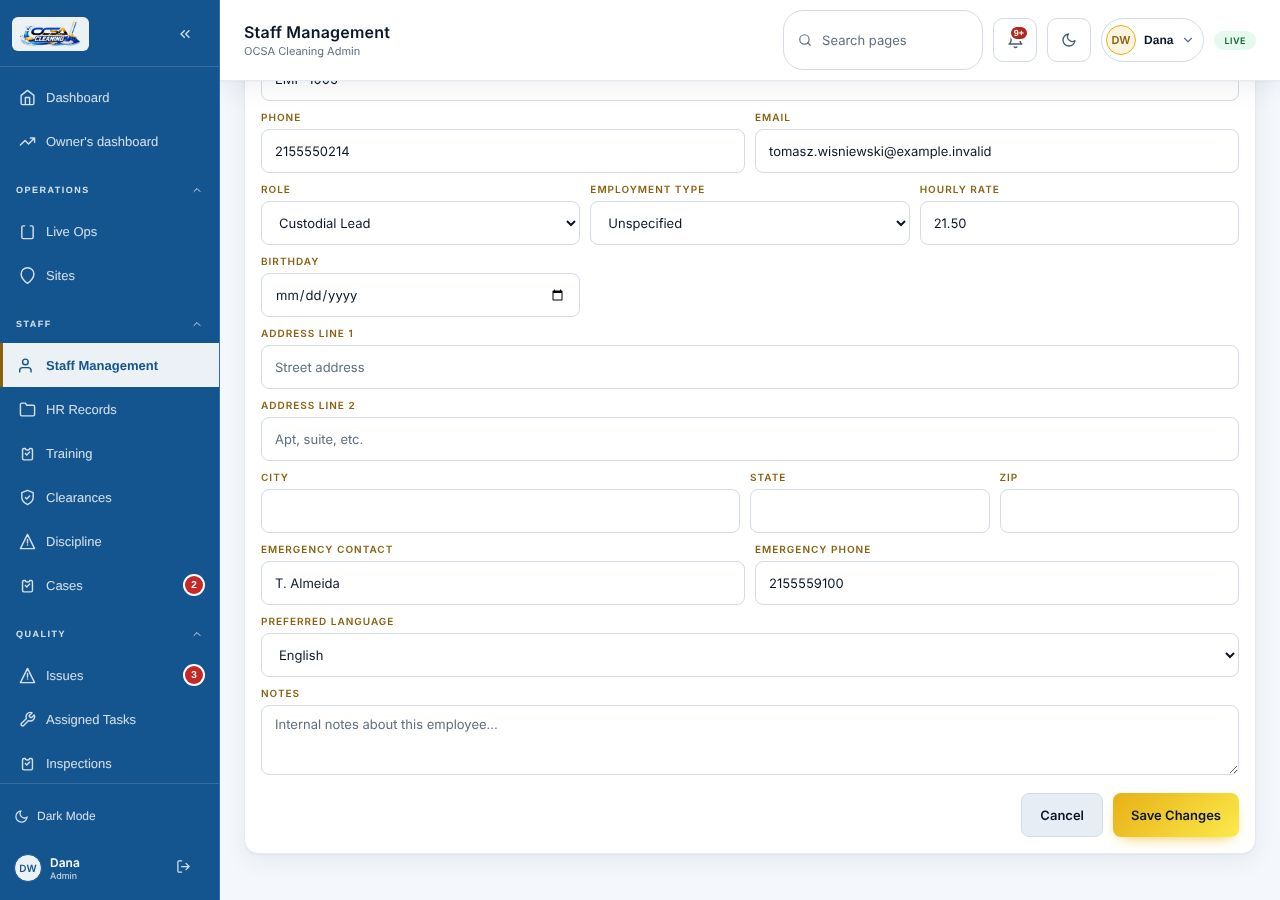
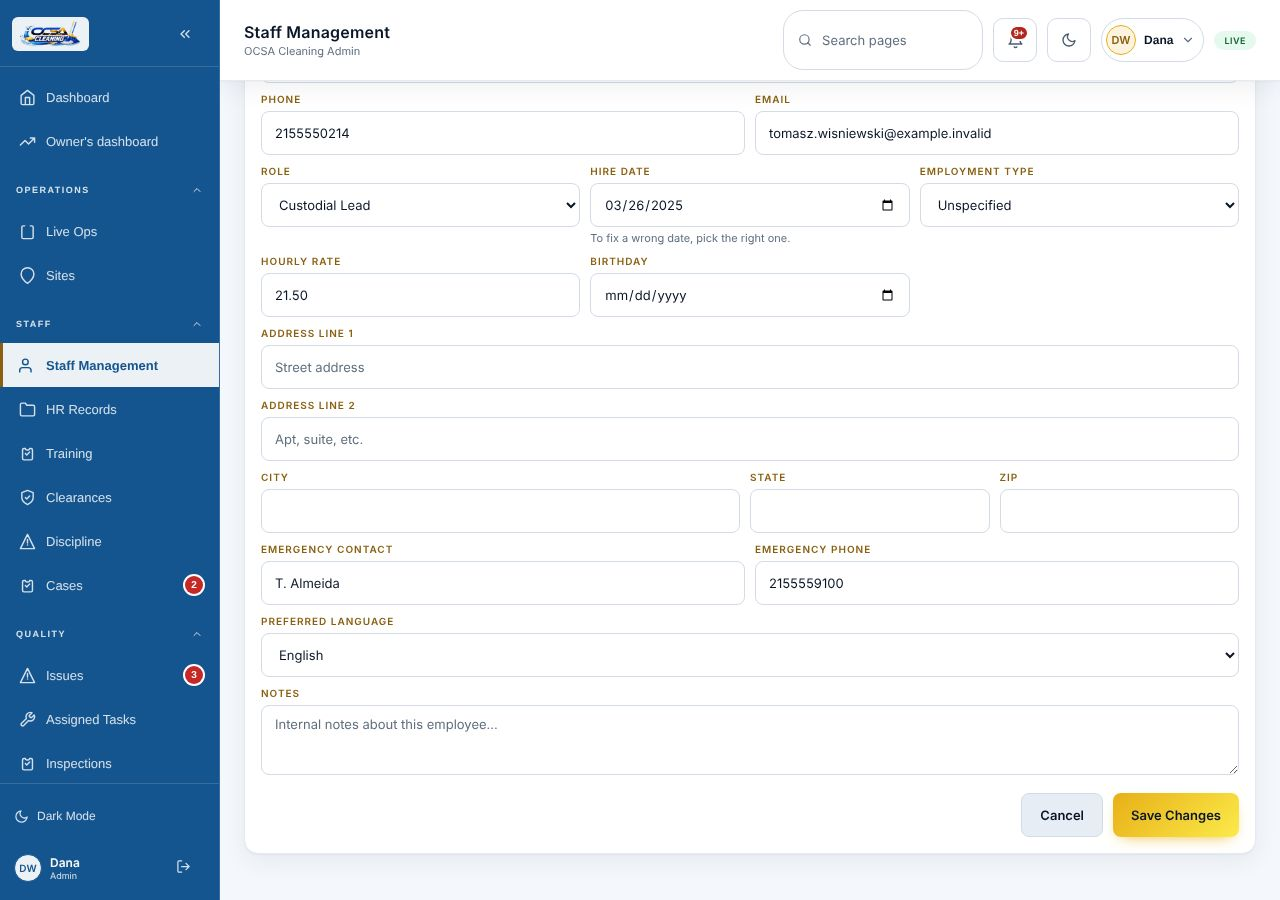
341: Changing a hire date's stub, smoke lines, notes, guide and pictures
The stub's setStep341 answers the API's part 340: GET /api/users and a profile carry each person's
hireDate, one active person carrying none; PATCH /api/users/:id and POST /api/users take hireDate
from a holder of manage_employment, refuse a day that is not real or is more than a year ahead 400
users.badHireDate, drop it for anyone else, and keep every body sent. Every value is invented.

Ten smoke lines, armed in the part's own lines at the end of the 1280 admin and supervisor passes in
English and Spanish: an untouched date is not sent and cannot be emptied; a changed date goes as
hireDate with every other field as the untouched save sent it; a profile's Edit fills a missing
date and draws users.badHireDate under the field; Add Staff sends hireDate only when filled; a
supervisor sees no Hire Date in either window and no Add Staff.

Guide: Edit a staff member's information and Add a staff member updated, and a new entry, Change a
staff member's hire date, through the profile's Edit, with two new pictures, staff-hire-date and
staff-hire-date-refused; staff-add-window and staff-profile-edit retaken with the field.

Claude-Session: https://claude.ai/code/session_01WvKUhYSAJjoJaaQxG7w5XV

Changed region(s): [[0.5938, 0.0933, 0.8125, 0.2489], [0.1875, 0.0933, 0.3125, 0.3422], [0.4375, 0.1867, 0.625, 0.3422]]

diff --git a/audit/smoke.js b/audit/smoke.js
@@ -168,6 +168,12 @@
 //     its own route, at 390 in English too; and a site kept as a record reads Not tracked on Live Ops and
 //     its setting saves. Once, before the passes, the worker line runs public/sw.js in a sandbox: a push
 //     shows its alert and a click opens each subject's place.
+//   - against the stub's answers for changing a hire date (the API's part 340, for the dashboard's part
+//     341), armed with setStep341 in the part's own lines: at 1280 in English and in Spanish an admin's
+//     Edit Staff Info sends no hireDate when the date is untouched, keeps a set date from being emptied,
+//     and sends a changed date as hireDate with nothing else changed; a profile's Edit fills a missing
+//     date and draws users.badHireDate under the field; Add Staff sends hireDate only when it is filled;
+//     and a supervisor, in English and in Spanish, sees no Hire Date in either window and no Add Staff.
 // One line a check. Any failure exits non-zero, and so does a run of three minutes or more. The full
 // npm run audit is untouched by this.
 // Since Step 273 the passes run side by side, each in a browser context and a stub of its own, and
@@ -241,13 +247,13 @@ const LAST_WEEK = (() => {
   return { from: day(mon), to: day(new Date(mon.getTime() + 6 * 86400000)) };
 })();
 const PASSES = [
-  { name: "1280 en admin", viewport: "wide", lang: "en", who: "admin", wrongSignIn: true, step283: true, step248: true, step250: true, requestChecks: true, step253: true, step256: "all", step262: "all", step266: "all", step270: "all", step269: "all", step275: "all", step278: true, step280: true, step291: true, step300: true, step293: true, step306: true, step309: true, step314: true, step317: true, step333: true, step334: true, step338: true },
-  { name: "1280 es admin", viewport: "wide", lang: "es", who: "admin", secondStep: true, wrongSignIn: true, step283: true, step248: true, step250: true, step256: "all", step262: "all", step266: "all", step270: "all", step269: "all", step275: "all", step278: true, step280: true, step291: true, step300: true, step293: true, step306: true, step309: true, step314: true, step317: true, step333: true, step334: true, step338: true },
+  { name: "1280 en admin", viewport: "wide", lang: "en", who: "admin", wrongSignIn: true, step283: true, step248: true, step250: true, requestChecks: true, step253: true, step256: "all", step262: "all", step266: "all", step270: "all", step269: "all", step275: "all", step278: true, step280: true, step291: true, step300: true, step293: true, step306: true, step309: true, step314: true, step317: true, step333: true, step334: true, step338: true, step341: true },
+  { name: "1280 es admin", viewport: "wide", lang: "es", who: "admin", secondStep: true, wrongSignIn: true, step283: true, step248: true, step250: true, step256: "all", step262: "all", step266: "all", step270: "all", step269: "all", step275: "all", step278: true, step280: true, step291: true, step300: true, step293: true, step306: true, step309: true, step314: true, step317: true, step333: true, step334: true, step338: true, step341: true },
   { name: "390 en admin", viewport: "phone", lang: "en", who: "admin", wrongSignIn: true, step283: true, step256: "phone", step262: "phone", step266: "phone", step270: "phone", step269: "phone", step275: "phone", step280: true, step291: true, step300: true, step293: true, step306: true, step309: true, step314: true, step317: true, step334: true },
-  { name: "1280 en supervisor", viewport: "wide", lang: "en", who: "supervisor", step256: "supervisor", step269: "supervisor", step332: "after" },
+  { name: "1280 en supervisor", viewport: "wide", lang: "en", who: "supervisor", step256: "supervisor", step269: "supervisor", step332: "after", step341: true },
   // The training day round: a supervisor in Spanish with the API's Step 327 answered from the start,
   // its lines alone.
-  { name: "1280 es supervisor", viewport: "wide", lang: "es", who: "supervisor", step332: true, walk: false },
+  { name: "1280 es supervisor", viewport: "wide", lang: "es", who: "supervisor", step332: true, walk: false, step341: true },
   // Step 273: the phone in Spanish, for the key sent to a phone and the Step 269 screens.
   { name: "390 es admin", viewport: "phone", lang: "es", who: "admin", step270: "phone", step269: "phone", step275: "phone" },
 ];
@@ -2745,6 +2751,127 @@ async function step338(d, origin, p, stubs) {
   });
 }
 
+// Part 341, changing a hire date, with the API's part 340 armed here. An admin: Edit Staff Info sends
+// no hireDate when the date is untouched and keeps a set date from being emptied; a changed date goes
+// as hireDate, the one field that changed; a profile's Edit fills a missing date, and users.badHireDate
+// is drawn under the field in the API's words; Add Staff sends hireDate when filled and leaves it out
+// when empty. A supervisor sees no Hire Date in either window and is offered no Add Staff.
+const nameOf341 = (id) => seed.STAFF.find((x) => x.id === id).name;
+const hireOf341 = (id) => seed.STAFF.find((x) => x.id === id).hire_date;
+async function editWindow341(d, id) {
+  await go(d, "staff", null, "table tbody tr");
+  await d.page.getByPlaceholder(d.say("Search name, ID, phone, role")).fill(nameOf341(id));
+  await d.page.locator("table tbody tr").filter({ hasText: nameOf341(id) }).first().getByTitle(d.say("Edit"), { exact: true }).click();
+  await d.page.getByText(d.say("Edit Staff Info"), { exact: true }).waitFor();
+}
+async function saved341(d, stubs, button) {
+  const before = stubs.patches341().length;
+  await button.click();
+  await forCalls(() => stubs.patches341().length, before);
+  return stubs.patches341()[before] || null;
+}
+const saveButton341 = (d) => d.page.getByRole("button", { name: d.say("Save Changes"), exact: true }).first();
+async function profileEdit341(d, id) {
+  await go(d, "staff", [id], "[data-profile-edit]");
+  await d.page.locator("[data-profile-edit]").click();
+  await until(d, '[data-hire-date="profile"], input[type="date"]');
+}
+async function added341(d, stubs, fill) {
+  await go(d, "staff", null, "table tbody tr");
+  await d.page.getByRole("button", { name: d.say("Add Staff"), exact: true }).first().click();
+  await until(d, '[data-hire-date="add"]');
+  const win = d.page.locator('[data-hire-date="add"]').locator("xpath=..");
+  const boxes = win.locator("input");
+  await boxes.nth(0).fill(fill.first);
+  await boxes.nth(1).fill(fill.last);
+  await boxes.nth(2).fill(fill.phone);
+  await boxes.nth(3).fill(fill.email);
+  if (fill.hireDate) await win.locator('[data-hire-date="add"] input').fill(fill.hireDate);
+  const before = stubs.posts341().length;
+  await win.getByRole("button", { name: d.say("Add Staff"), exact: true }).click();
+  await forCalls(() => stubs.posts341().length, before);
+  const sent = stubs.posts341()[before] || null;
+  const done = d.page.getByRole("button", { name: d.say("Done"), exact: true });
+  await done.waitFor().catch(() => {});
+  if (await done.count()) await done.click();
+  return sent;
+}
+async function step341(d, origin, p, stubs) {
+  const check = lineChecker(d, origin, p);
+  stubs.setStep341(true);
+  const own = (o, k) => !!o && Object.prototype.hasOwnProperty.call(o, k);
+  if (p.who === "supervisor") {
+    await check("a supervisor sees no Hire Date in Edit Staff Info or a profile's Edit, and no Add Staff", async () => {
+      await editWindow341(d, "u-staff-6");
+      if ((await d.page.locator("[data-hire-date]").count()) > 0) return "Edit Staff Info draws Hire Date";
+      const sent = await saved341(d, stubs, saveButton341(d));
+      if (!sent) return "the window saved nothing";
+      if (own(sent.body, "hireDate")) return "the save sent hireDate " + JSON.stringify(sent.body.hireDate);
+      await profileEdit341(d, "u-staff-6");
+      if ((await d.page.locator("[data-hire-date]").count()) > 0) return "the profile's Edit draws Hire Date";
+      await go(d, "staff", null, "table tbody tr");
+      return (await d.page.getByRole("button", { name: d.say("Add Staff"), exact: true }).count()) > 0 ? "Add Staff is offered" : "";
+    });
+    return;
+  }
+  let untouched = null;
+  await check("Edit Staff Info: an untouched hire date is not sent, and a set date cannot be emptied", async () => {
+    await editWindow341(d, "u-staff-6");
+    const box = d.page.locator('[data-hire-date="edit"] input');
+    if ((await box.inputValue()) !== hireOf341("u-staff-6")) return "the field reads " + JSON.stringify(await box.inputValue());
+    await box.fill("");
+    await wait(150);
+    if ((await box.inputValue()) !== hireOf341("u-staff-6")) return "the date was emptied";
+    const sent = await saved341(d, stubs, saveButton341(d));
+    if (!sent || sent.id !== "u-staff-6") return "the save sent " + JSON.stringify(sent);
+    if (own(sent.body, "hireDate")) return "the save sent hireDate " + JSON.stringify(sent.body.hireDate);
+    untouched = sent.body;
+    return "";
+  });
+  await check("Edit Staff Info: a changed hire date goes as hireDate, and nothing else changes", async () => {
+    if (!untouched) return "the untouched save did not run";
+    await editWindow341(d, "u-staff-6");
+    await d.page.locator('[data-hire-date="edit"] input').fill("2025-04-01");
+    const sent = await saved341(d, stubs, saveButton341(d));
+    if (!sent || sent.body.hireDate !== "2025-04-01") return "the save sent " + JSON.stringify(sent && sent.body);
+    const rest = Object.assign({}, sent.body);
+    delete rest.hireDate;
+    if (JSON.stringify(rest) !== JSON.stringify(untouched)) return "the save changed more than the date: " + JSON.stringify(rest);
+    await editWindow341(d, "u-staff-6");
+    const now = await d.page.locator('[data-hire-date="edit"] input').inputValue();
+    return now !== "2025-04-01" ? "the window opens again on " + JSON.stringify(now) : "";
+  });
+  await check("a profile's Edit fills a missing hire date, and users.badHireDate shows under the field", async () => {
+    await profileEdit341(d, "u-staff-7");
+    const box = d.page.locator('[data-hire-date="profile"] input');
+    if ((await box.inputValue()) !== "") return "the field reads " + JSON.stringify(await box.inputValue());
+    const far = (Number(seed.shift(0).slice(0, 4)) + 2) + "-06-01";
+    await box.fill(far);
+    const refused = await saved341(d, stubs, saveButton341(d));
+    if (!refused || refused.body.hireDate !== far || !refused.refused) return "the far date was sent as " + JSON.stringify(refused);
+    await until(d, "[data-hire-date-said]");
+    const said = await d.page.locator('[data-hire-date="profile"] [data-hire-date-said]').innerText();
+    if (said.trim() !== stubs.hireRefusal341(p.lang)) return "under the field: " + JSON.stringify(said);
+    await box.fill("2025-04-17");
+    if ((await d.page.locator("[data-hire-date-said]").count()) > 0) return "the refusal stays once the date changes";
+    const sent = await saved341(d, stubs, saveButton341(d));
+    if (!sent || sent.body.hireDate !== "2025-04-17" || sent.refused) return "the save sent " + JSON.stringify(sent);
+    await d.page.locator('[data-hire-date="profile"]').waitFor({ state: "detached" });
+    await profileEdit341(d, "u-staff-7");
+    const now = await d.page.locator('[data-hire-date="profile"] input').inputValue();
+    if (now !== "2025-04-17") return "the profile opens again on " + JSON.stringify(now);
+    return (await d.page.locator('[data-hire-date="profile"]').innerText()).indexOf(d.say("To fix a wrong date, pick the right one.")) < 0 ? "the line under the set date is not there" : "";
+  });
+  await check("Add Staff sends hireDate when filled and leaves it out when empty", async () => {
+    const empty = await added341(d, stubs, { first: "Avery", last: "Testcase", phone: "2155550142", email: "avery.testcase@example.invalid" });
+    if (!empty) return "Add Staff sent nothing";
+    if (own(empty.body, "hireDate")) return "an empty Hire Date was sent as " + JSON.stringify(empty.body.hireDate);
+    const filled = await added341(d, stubs, { first: "Jordan", last: "Testcase", phone: "2155550143", email: "jordan.testcase@example.invalid", hireDate: "2026-03-02" });
+    if (!filled) return "Add Staff sent nothing the second time";
+    return filled.body.hireDate !== "2026-03-02" ? "a filled Hire Date was sent as " + JSON.stringify(filled.body.hireDate) : "";
+  });
+}
+
 async function runPass(browser, origin, p) {
   const stubs = createStubs();
   // Step 253 brings Step 250's and 247's answers with it, Step 250 brings Step 247's; every other pass
@@ -2893,6 +3020,7 @@ async function runPass(browser, origin, p) {
     if (p.step333) await step333(d, origin, p, stubs);
     if (p.step334) await step334(d, origin, p, stubs);
     if (p.step338) await step338(d, origin, p, stubs);
+    if (p.step341) await step341(d, origin, p, stubs);
     if (p.walk === false) return;
 
     // Help, asked one question.

diff --git a/audit/stubs.js b/audit/stubs.js
@@ -7074,6 +7074,67 @@ function createStubs() {
     return base();
   }
 
+  // setStep341, changing a hire date (the API's part 340): GET /api/users and a profile answer each
+  // person's hireDate, one active person answering none; PATCH /api/users/:id and POST /api/users take
+  // hireDate from a holder of manage_employment (an admin while the permissions answer does not name
+  // it), refusing a day that is not real or is more than a year ahead 400 users.badHireDate in the API's
+  // words, and drop it, unwritten, for anyone else. Every PATCH and POST is kept as it was sent.
+  let step341 = false;
+  const NO_HIRE_341 = "u-staff-7";
+  const s341 = () => state.s341 || (state.s341 = { dates: { [NO_HIRE_341]: null }, patches: [], posts: [] });
+  const hireOf341 = (id, was) => (Object.prototype.hasOwnProperty.call(s341().dates, String(id)) ? s341().dates[String(id)] : was == null ? null : was);
+  const employs341 = () => {
+    const m = effectiveMap(person(), state.overrides[person().id]);
+    return Object.prototype.hasOwnProperty.call(m, "manage_employment") ? m.manage_employment : person().role === "admin";
+  };
+  const badHire341 = (v, lang) => {
+    const today = seed.shift(0);
+    const limit = (Number(today.slice(0, 4)) + 1) + today.slice(4);
+    if (realDay(v) && v <= limit) return null;
+    return { status: 400, json: { error: T327(lang, "Choose a real date, no more than a year from today.", "Elija una fecha real, a no más de un año de hoy."), code: "users.badHireDate", keys: ["hireDate"] } };
+  };
+  function step341Route(method, path, query, body, lang, base) {
+    if (path === "/api/users" && method === "GET") {
+      const a = base();
+      if (a && a.status === 200 && Array.isArray(a.json)) a.json = a.json.map((x) => Object.assign({}, x, { hireDate: hireOf341(x.id, x.hireDate !== undefined ? x.hireDate : x.hire_date) }));
+      return a;
+    }
+    if (/^\/api\/users\/profile\/[^/]+$/.test(path) && method === "GET") {
+      const a = base();
+      if (a && a.status === 200 && a.json && a.json.user) a.json = Object.assign({}, a.json, { user: Object.assign({}, a.json.user, { hireDate: hireOf341(a.json.user.id, a.json.user.hireDate) }) });
+      return a;
+    }
+    const one = /^\/api\/users\/([^/]+)$/.exec(path);
+    if (one && method === "PATCH") {
+      const id = decodeURIComponent(one[1]);
+      const sent = clone(body || {});
+      const has = !!body && Object.prototype.hasOwnProperty.call(body, "hireDate");
+      if (has && !employs341()) {
+        s341().patches.push({ id, body: sent, dropped: true });
+        delete body.hireDate;
+        return base();
+      }
+      if (has) {
+        const refused = badHire341(body.hireDate, lang);
+        s341().patches.push({ id, body: sent, refused: !!refused });
+        if (refused) return refused;
+        s341().dates[id] = body.hireDate;
+        return base();
+      }
+      s341().patches.push({ id, body: sent });
+      return base();
+    }
+    if (path === "/api/users" && method === "POST") {
+      const sent = clone(body || {});
+      const has = !!body && Object.prototype.hasOwnProperty.call(body, "hireDate");
+      if (has && !employs341()) { s341().posts.push({ body: sent, dropped: true }); delete body.hireDate; return base(); }
+      const refused = has ? badHire341(body.hireDate, lang) : null;
+      s341().posts.push({ body: sent, refused: !!refused });
+      return refused || base();
+    }
+    return base();
+  }
+
   // The single entry point the harness routes every request through.
   function handle({ method, url, body, headers, lang }) {
     const u = new URL(url);
@@ -7138,7 +7199,8 @@ function createStubs() {
     const over329 = () => (step329 ? step329Route(method, path, u.searchParams, body, record.language, over327) : over327());
     const over330 = () => (step330 ? step330Route(method, path, u.searchParams, body, record.language, over329) : over329());
     const over337 = () => (step337 ? step337Route(method, path, u.searchParams, body, record.language, over330) : over330());
-    const answer = step283 ? step283Route(method, path, u.searchParams, body, record.language, signedIn, over337) : over337();
+    const over341 = () => (step341 ? step341Route(method, path, u.searchParams, body, record.language, over337) : over337());
+    const answer = step283 ? step283Route(method, path, u.searchParams, body, record.language, signedIn, over341) : over341();
     if (answer) {
       // The status the call was answered with, refusals the routes make on their own included.
       record.status = answer.status;
@@ -7269,6 +7331,11 @@ function createStubs() {
     covers330: () => (state.s330 ? state.s330.covers.slice() : []),
     setStep337: (v) => { step337 = v !== false; },
     saves337: () => (state.s337 ? state.s337.saves.slice() : []),
+    // Changing a hire date (the API's part 340), on or off, and every staff PATCH and POST since, as sent.
+    setStep341: (v) => { step341 = v !== false; },
+    patches341: () => (state.s341 ? state.s341.patches.slice() : []),
+    posts341: () => (state.s341 ? state.s341.posts.slice() : []),
+    hireRefusal341: (lang) => badHire341("", lang).json.error,
     // Every purchase order sent since the run armed Step 308, to whom.
     sent308: () => (state.s308 ? state.s308.sent.slice() : []),
     // Every welcome email tried since the run armed Step 292, with whom and how it went.

diff --git a/audit/shots.js b/audit/shots.js
@@ -1647,6 +1647,23 @@ const SHOTS = [
   { name: "site-task-list-record", entry: "Keep a site's task list as a record only",
     open: "sites/s-3/tasks", ready: '[data-checklist-mode="reference"]',
     act: async (c) => { await toTop(c, "[data-checklist-mode]", 120); } },
+  // Changing a hire date (part 341, setStep341): a profile's Edit with Hire Date filled in for a
+  // person who had none, and a date two years ahead refused under the field.
+  { name: "staff-hire-date", entry: "Change a staff member's hire date",
+    open: "staff/u-staff-7", ready: "[data-profile-edit]",
+    act: async (c) => {
+      await click(c, "[data-profile-edit]"); await until(c, '[data-hire-date="profile"]');
+      await c.page.locator('[data-hire-date="profile"] input').fill("2025-04-17");
+      await blur(c); await toTop(c, "[data-hire-date=profile]", 330);
+    } },
+  { name: "staff-hire-date-refused", entry: "Change a staff member's hire date",
+    open: "staff/u-staff-5", ready: "[data-profile-edit]",
+    act: async (c) => {
+      await click(c, "[data-profile-edit]"); await until(c, '[data-hire-date="profile"]');
+      await c.page.locator('[data-hire-date="profile"] input').fill((Number(seed.shift(0).slice(0, 4)) + 2) + "-06-01");
+      await press(c, "Save Changes"); await until(c, "[data-hire-date-said]");
+      await blur(c); await toTop(c, "[data-hire-date=profile]", 330);
+    } },
   { name: "site-schedule-edit", entry: "Change a block's time, kind and days",
     open: "sites/s-2/tasks", ready: '[data-schedule-edit="tb-5"]',
     act: async (c) => {
@@ -1718,7 +1735,7 @@ function buildIsFresh() {
 function stubsFor(as) {
   const stubs = createStubs();
   stubs.setStep253(true);
-  ["setStep256", "setStep262", "setStep266", "setStep270", "setStep269", "setStep275", "setStep278", "setStep280", "setStep283", "setStep289", "setStep299", "setStep292", "setStep305", "setStep308", "setStep312", "setStep315", "setStep327", "setStep329", "setStep330", "setStep337"].forEach((k) => stubs[k](true));
+  ["setStep256", "setStep262", "setStep266", "setStep270", "setStep269", "setStep275", "setStep278", "setStep280", "setStep283", "setStep289", "setStep299", "setStep292", "setStep305", "setStep308", "setStep312", "setStep315", "setStep327", "setStep329", "setStep330", "setStep337", "setStep341"].forEach((k) => stubs[k](true));
   // A person still on the PIN the office gave, whom the dashboard shows Choose your PIN alone (Step 284).
   if (as === "pin") stubs.setMustSetPin("admin", true);
   // The second step of sign-in, the way audit/smoke.js arms it: sign-in answers secondStep, and the

diff --git a/guide/APP-DASHBOARD.md b/guide/APP-DASHBOARD.md
@@ -87,7 +87,7 @@ Last checked: 2026-10-07
 Who can do this: admins. A supervisor opens **Staff Management** (**Gestión de personal**) and does not see **Add Staff** (**Agregar persona**).
 1. Click **Staff Management** (**Gestión de personal**).
 2. Click **Add Staff** (**Agregar persona**).
-3. Fill in first name, phone and email, and the role and employment type.
+3. Fill in first name, phone and email, and the role and employment type. **Hire Date** (**Fecha de contratación**) is optional: fill it in with the day the person started.
 4. Click **Add Staff** (**Agregar persona**) to save. The person is active at once, and the welcome email goes to their email by itself.
 5. The window that stays open says **Welcome email sent to {0}.** (**Se envió el correo de bienvenida a {0}.**) with the address, or **Welcome email not sent: {0}** (**No se envió el correo de bienvenida: {0}**) with the reason, such as a placeholder address.
 6. The **Temporary PIN** (**PIN temporal**) stays in the window, hidden, in case the email does not reach them: **Show** (**Mostrar**) reveals it and **Copy** (**Copiar**) copies it for the person's sign-in slip.
@@ -107,12 +107,13 @@ Who can do this: admins
 Picture: staff-pending
 Last checked: 2026-10-07
 ## Edit a staff member's information (admin dashboard)
-Who can do this: admins and supervisors. Only admins change a person's role, and a supervisor changes the information of staff only.
+Who can do this: admins and supervisors. Only admins change a person's role and hire date, and a supervisor changes the information of staff only.
 1. Click **Staff Management** (**Gestión de personal**) and click the person's row to open their profile.
 2. On the **Profile** (**Perfil**) tab, click **Edit** (**Editar**) on the contact information.
-3. Change what is needed and click **Save Changes** (**Guardar los cambios**). A supervisor's window has no role to change.
-4. The profile holds **Profile** (**Perfil**), **Assignments** (**Asignaciones**) and **Timeline** (**Historial**). The person's documents, training, certifications and filed forms are in their HR Records folder: click **Open HR file** (**Abrir el expediente de personal**), which shows for anyone who can open HR Records.
-5. **Preferred Language** (**Idioma preferido**) offers English and Español, and Français once the system keeps people in French. Before then, a person whose language is French shows Français and stays French when you save other changes.
+3. Change what is needed and click **Save Changes** (**Guardar los cambios**). A supervisor's window has no role and no hire date to change.
+4. **Hire Date** (**Fecha de contratación**) holds the person's date, and once set it cannot be emptied. See Change a staff member's hire date.
+5. The profile holds **Profile** (**Perfil**), **Assignments** (**Asignaciones**) and **Timeline** (**Historial**). The person's documents, training, certifications and filed forms are in their HR Records folder: click **Open HR file** (**Abrir el expediente de personal**), which shows for anyone who can open HR Records.
+6. **Preferred Language** (**Idioma preferido**) offers English and Español, and Français once the system keeps people in French. Before then, a person whose language is French shows Français and stays French when you save other changes.
 Picture: staff-profile-edit
 Last checked: 2026-10-13
 
@@ -2536,4 +2537,17 @@ Who can do this: admins, and anyone allowed to change site records. Everyone els
 5. The task list stays fully editable either way. Turn the setting back on to have staff check off tasks there again.
 Words people use for this: task list for reference, no check off, schools, record of the work, not tracked, lista de tareas como referencia.
 Picture: site-task-list-record
+Last checked: 2026-10-13
+
+## Change a staff member's hire date (admin dashboard)
+Who can do this: admins. A supervisor sees no hire date to change.
+1. Click **Staff Management** (**Gestión de personal**) and click the person's row to open their profile.
+2. On the **Profile** (**Perfil**) tab, click **Edit** (**Editar**) on the contact information.
+3. Pick the date in **Hire Date** (**Fecha de contratación**). The field is empty for someone whose profile reads **Not set** (**Sin indicar**).
+4. Click **Save Changes** (**Guardar los cambios**). The profile shows the new date, and the change is recorded with the old date, the new date and who made it.
+5. A hire date once set cannot be emptied. To fix a wrong one, pick the right date, as the line under the field says: **To fix a wrong date, pick the right one.** (**Para corregir una fecha equivocada, elija la correcta.**)
+If it does not work: a date that is not a real day, or is more than a year ahead, is refused, and the reason shows in red under the field. Pick a real date and click **Save Changes** (**Guardar los cambios**) again. For someone who left and is coming back, use Rehire someone, which sets their new hire date.
+Words people use for this: hire date, start date, date of hire, update a hire date, change a hire date, fix a hire date, missing hire date, when they started, fecha de contratación.
+Picture: staff-hire-date
+Picture: staff-hire-date-refused
 Last checked: 2026-10-13

diff --git a/audit/README.md b/audit/README.md
@@ -241,6 +241,19 @@ stood from 148 to 114 seconds; `SMOKE_LANES` sets how many. Then it checks, one 
     Step 291's Periodic work line has read every site: the third site's Service Details reads Staff check
     off tasks here off with its line and no Periodic work, Live Ops marks the site and its person Not
     tracked with no percentage, and turning the setting on saves `{ checklistMode: "tracked" }`.
+- against the stub's answers for changing a hire date (the API's part 340, for the dashboard's part 341),
+  `setStep341`, armed in the part's own lines at the end of four passes: GET /api/users and a profile
+  answer each person's `hireDate`, one active person answering none, and PATCH /api/users/:id and POST
+  /api/users take `hireDate` from a holder of manage_employment, refusing a day that is not real or is
+  more than a year ahead 400 `users.badHireDate` and dropping it for anyone else, and keep every body sent.
+  - at 1280 in English and in Spanish, an admin: Edit Staff Info opens on the person's date, keeps it from
+    being emptied and sends no `hireDate` when it is untouched; a changed date goes as `hireDate` with
+    every other field as the untouched save sent it, and the window opens again on it; a profile's Edit
+    fills the missing date, a date two years ahead draws `users.badHireDate` under the field in the
+    stub's words, and the profile opens again on the date saved with the line under it; Add Staff sends
+    no `hireDate` when the field is empty and the date when it is filled.
+  - at 1280 in English and in Spanish, a supervisor: no Hire Date in Edit Staff Info or in a profile's
+    Edit, a save from the window sends no `hireDate`, and no Add Staff.
 
 Since Step 257 a check opens a page by its hash and waits for the thing it reads to be drawn, rather
 than for the network to go quiet for half a second and then a fixed pause, and the phone's drawer is
@@ -336,7 +349,7 @@ and Step 268's by `data-training-views`, `data-training-view`, `data-catalog-cat
 `data-shift-time-off`, `data-time-off-window`, `data-time-off-affected`, `data-affected-shift`,
 `data-affected-action`, `data-cover-pick`, `data-cover-overtime`, `data-time-off-cover-save`,
 `data-checklist-mode`, `data-checklist-mode-switch`, `data-ops-site`, `data-ops-not-tracked` and
-`data-not-tracked`. Since Step 291 a person
+`data-not-tracked`, and part 341's by `data-hire-date`, `data-hire-date-said` and `data-profile-edit`. Since Step 291 a person
 is picked in a searchable picker, so the session line picks its trainer by `data-person-pick-option`.
 
 ## Pictures of the screen
@@ -362,7 +375,7 @@ entry's `Last checked:` to (guide/README.md, Every entry keeps its pictures curr
 
 The stub serves the pictures with every step the API has built armed, the way live answers, the API's
 Step 280, Step 283, Step 289, Step 292, Step 299, Step 305, Step 308, Step 312 and Step 315 contracts and the
-training day round's parts 327, 329, 330 and 337 among them, so Choose your PIN is taken in a session of its own signed
+training day round's parts 327, 329, 330 and 337 and part 340 among them, so Choose your PIN is taken in a session of its own signed
 in on the PIN the office gave (Step 284), and with
 `setStep278`, which the smoke check arms only for its Help pictures lines: invented answers for the screens no check had drawn before, such
 as the PPE a person was issued, quotes, clearances, warnings, workload plans, equipment, projects and
